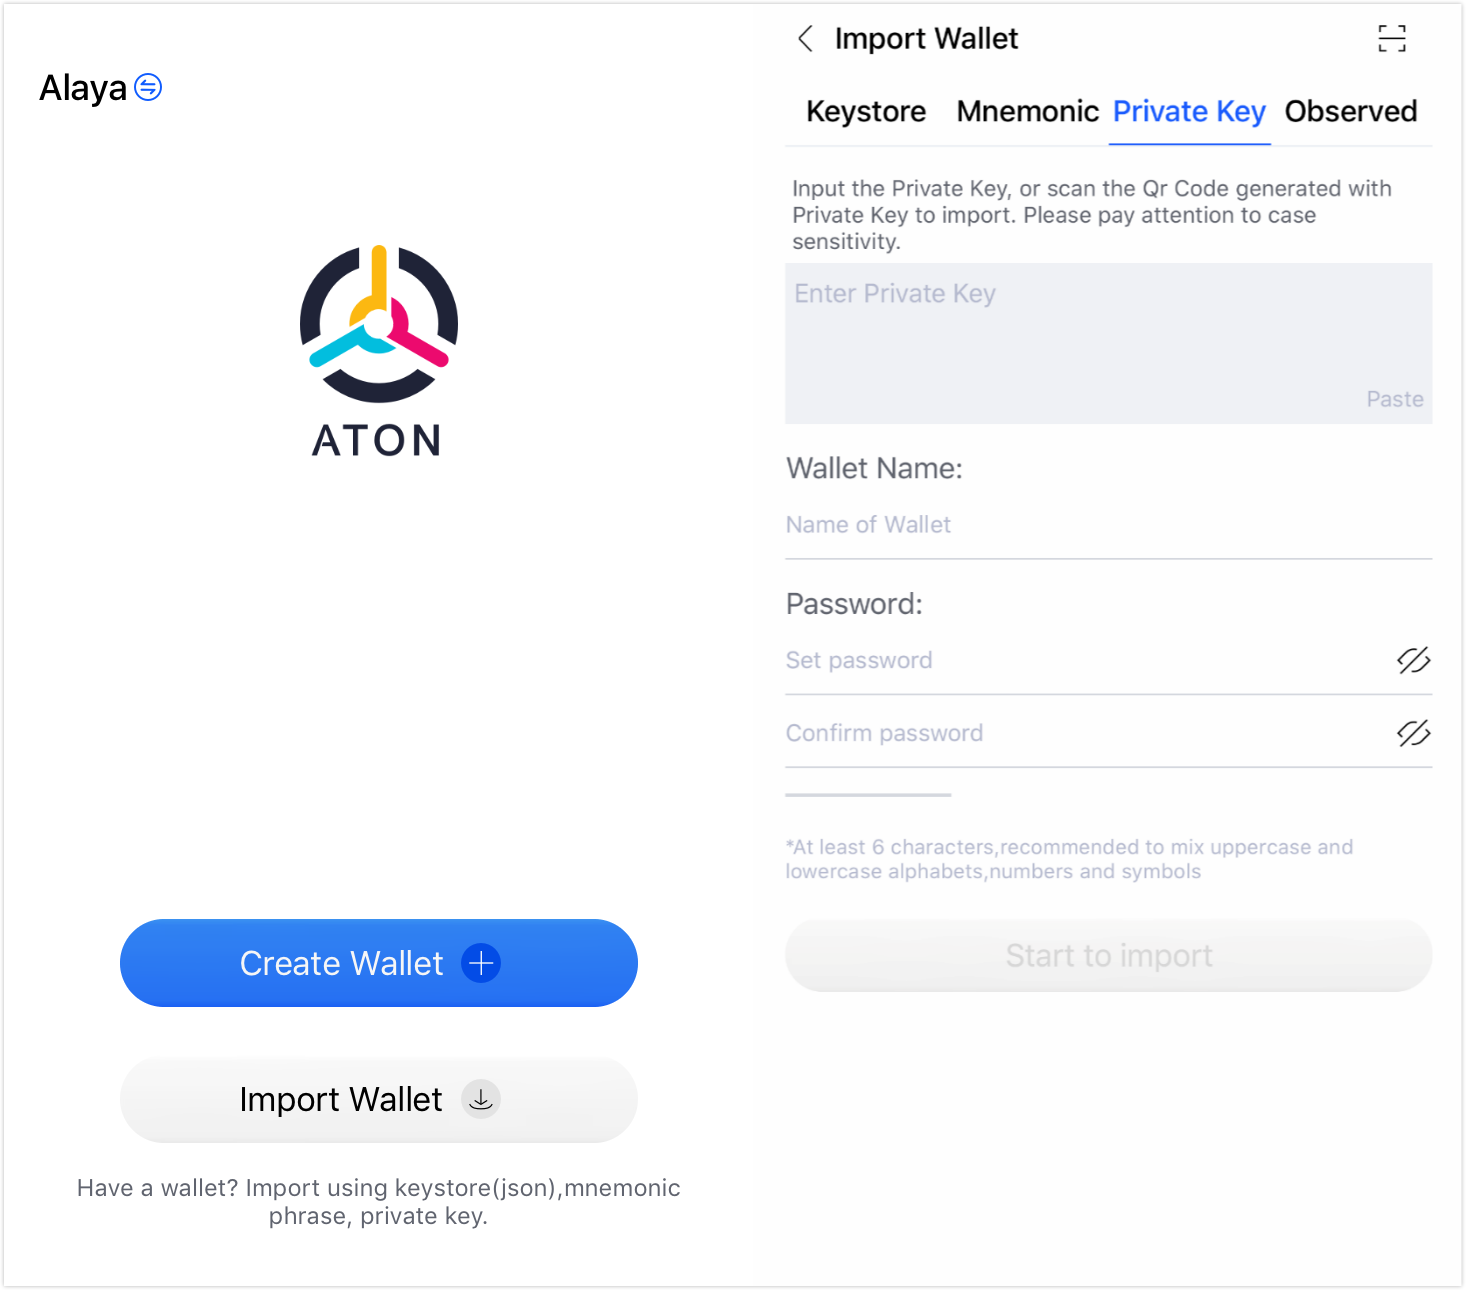
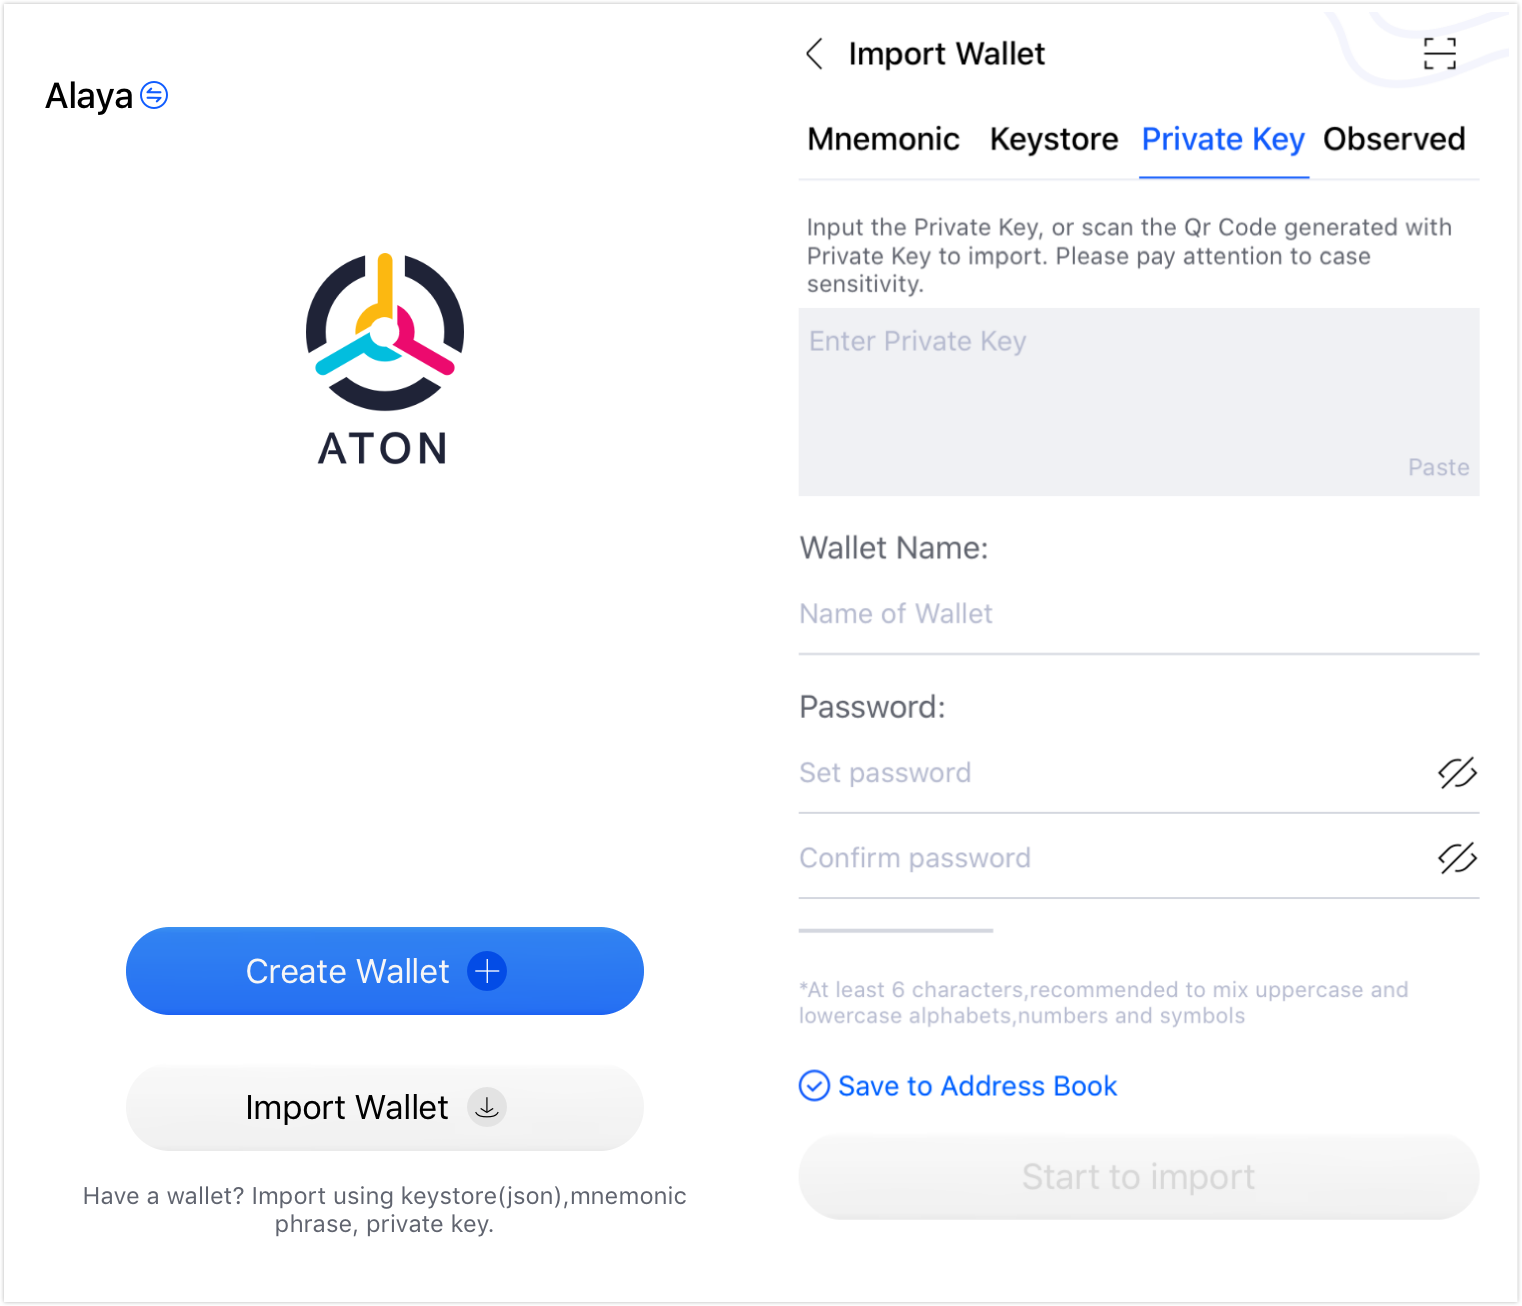
更新aton英文手册

diff --git a/docs/ATON-user-manual.md b/docs/ATON-user-manual.md
@@ -117,6 +117,16 @@ For details about importing observed wallets, please refer to the instructions o
 <div style = "margin-top: 40px;"> </div>
 
 
+### Address Book
+
+<div>
+<div style = "float: left;"> <img src = "/alaya-devdocs/img/en/ATON-user-manual.assets/aton11.png "width ="500"style="zoom:80%;" /> </div> <div> <br> 1. Select [My-Settings], you can see the list of stored wallet addresses in the address book. <br> 2. Click any one of the address information to copy the selected address.<br> 3. Slide any one of the address information to delete and edit it. <br> 4. Click the [+] button on the right side of the top navigation bar to manually add address information to the address book.<br><br> 5. At the same time, you can also check the [Deposit Address] button above the [Start Import] button on the [Create Wallet] and [Import Wallet] pages (including mnemonic import, wallet file import, private key import, and watch wallet import) Book] The option realizes that the wallet is automatically stored in the address book, and this option is checked by default.<br> <br> 
+</div>
+<div style="clear:both"></div>
+<div style="margin-top:40px;"></div>
+</div>
+
+
 ## Select Wallet
 
 <div>
